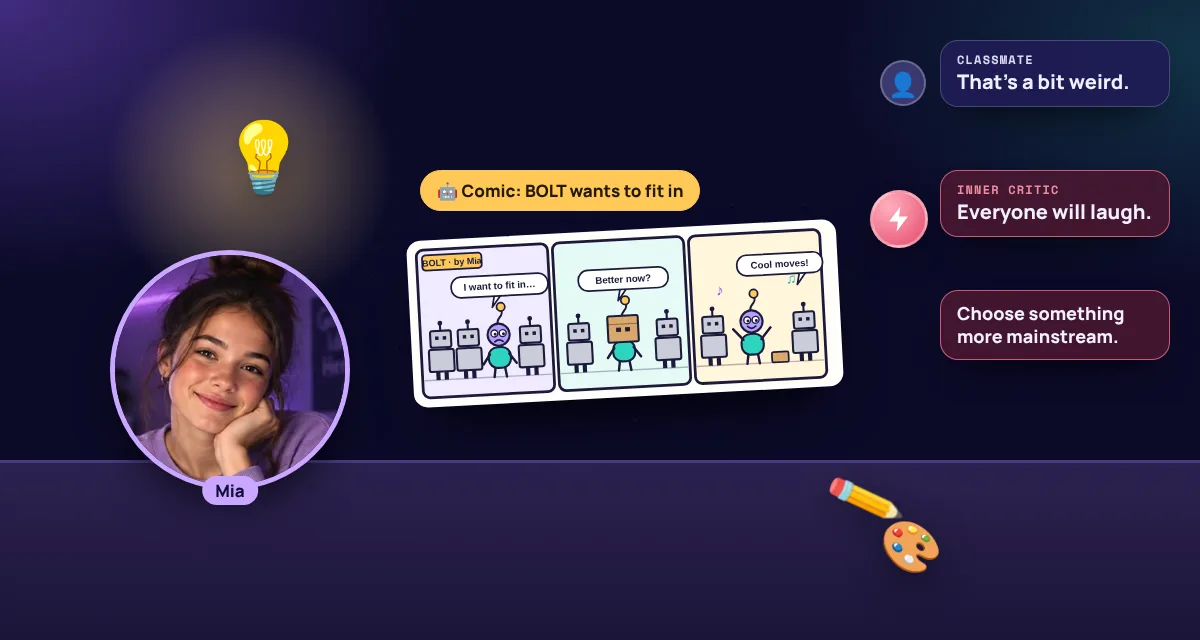
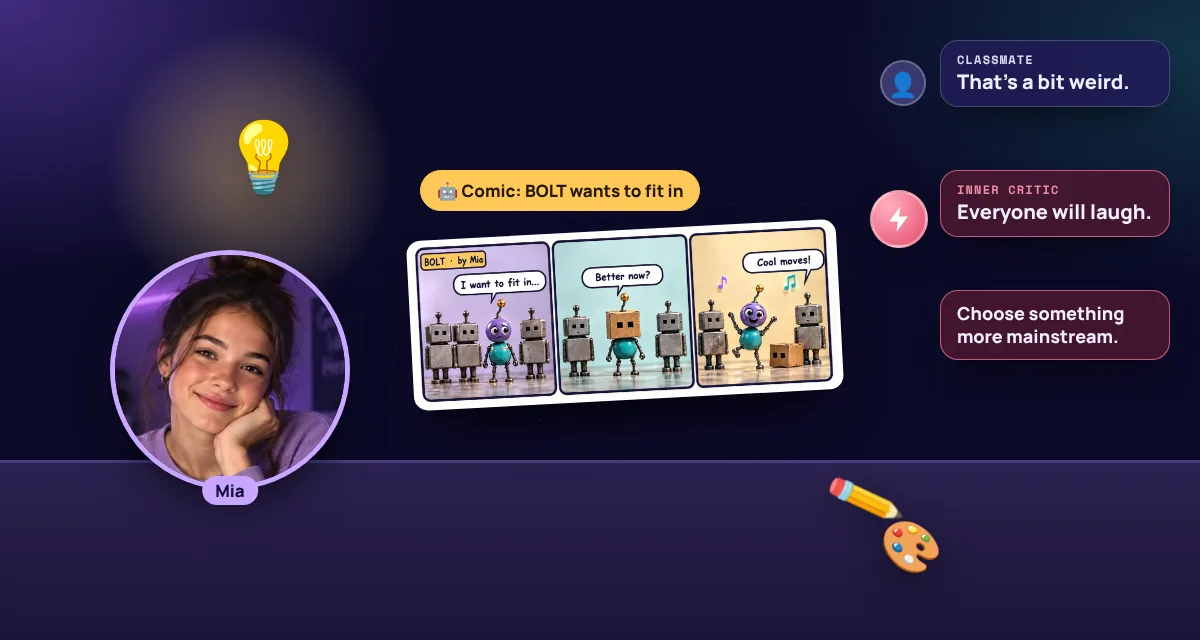
Add files via upload

Changed region(s): [[0.3392, 0.3438, 0.7092, 0.6562]]

diff --git a/lessons/lesson-07/lesson-07.html b/lessons/lesson-07/lesson-07.html
@@ -455,6 +455,9 @@ body.student, body.solo{overflow:auto}
 @keyframes ant{50%{transform:rotate(-9deg)}}
 @keyframes noteUp{0%{transform:translateY(4px); opacity:.3}50%{opacity:1}100%{transform:translateY(-12px); opacity:.2}}
 .attach{position:relative}
+.comicimg{display:block; width:100%; height:auto}
+.comicimg.reveal{animation:comicReveal 1.5s var(--cd,0s) cubic-bezier(.3,.7,.2,1) both}
+@keyframes comicReveal{0%{clip-path:inset(0 100% 0 0); filter:brightness(1.15)}100%{clip-path:inset(0 0 0 0); filter:none}}
 .stamp{position:absolute; right:6%; bottom:10%; padding:.1rem .6rem; border:4px solid var(--ok); border-radius:.6rem; color:var(--ok); background:rgba(255,255,255,.88); font-family:"Anton",sans-serif; font-size:1.3rem; letter-spacing:.04em; transform:rotate(-9deg)}
 .stamp.ent0{animation:stampIn .5s 1s cubic-bezier(.2,.9,.3,1.3) both}
 @keyframes stampIn{0%{opacity:0; transform:scale(1.8) rotate(-14deg)}100%{opacity:1; transform:rotate(-9deg)}}
@@ -939,7 +942,12 @@ const startersHtml = list=>`<div class="starters">${list.map(s=>`<span>${esc(s)}
 const optTag = '<span class="tag opt">Optional</span>';
 
 /* Mia’s comic “BOLT” — inline SVG */
-function comic(){
+/* Mia’s comic — the picture img/comic.webp; the drawn SVG below is only a fallback if the file is missing */
+const COMIC_ALT='Mia’s comic BOLT: a purple robot wants to fit in with square grey robots, hides its head in a cardboard box, then takes the box off and dances.';
+function comic(o={}){
+  return `<img class="comicimg ${o.reveal?'ent0 reveal':''}" src="img/comic.webp" alt="${esc(COMIC_ALT)}" ${o.delay?`style="--cd:${o.delay}"`:''} onerror="this.outerHTML=comicSvg()">`;
+}
+function comicSvg(){
   const ink='#1B1A3A', font="'Comic Sans MS','Chalkboard SE','Comic Neue',Manrope,sans-serif";
   const box=(x,y,c='#C9CCD8')=>`<g transform="translate(${x} ${y})"><line x1="15" y1="-9" x2="15" y2="0" stroke="${ink}" stroke-width="3"/><circle cx="15" cy="-11" r="3.5" fill="${ink}"/><rect width="30" height="24" rx="3" fill="${c}" stroke="${ink}" stroke-width="3"/><rect x="7" y="8" width="5" height="5" fill="${ink}"/><rect x="18" y="8" width="5" height="5" fill="${ink}"/><rect x="-3" y="27" width="36" height="32" rx="3" fill="${c}" stroke="${ink}" stroke-width="3"/><rect x="6" y="59" width="6" height="12" fill="${ink}"/><rect x="18" y="59" width="6" height="12" fill="${ink}"/></g>`;
   const bolt=(x,y,o={})=>`<g transform="translate(${x} ${y})"><g class="${o.cls||''}"><g class="ant"><path d="M15 -4 C 10 -14, 26 -16, 20 -26" stroke="${ink}" stroke-width="3" fill="none" stroke-linecap="round"/><circle cx="20" cy="-30" r="6" fill="#FFC857" stroke="${ink}" stroke-width="2.5"/></g>
@@ -1057,7 +1065,7 @@ const STEPS = [
       <div class="chat-h">${av('mia',2.4)}<div><b>Mia</b><small>● online</small></div><span class="grow"></span><span class="tag vio">📩 new</span></div>
       <div class="chat-b">
         ${MIA_MSG.parts.map((p,i)=>`<div class="typing tseq" style="--d:${(i*1.15).toFixed(2)}s"><i></i><i></i><i></i></div><div class="msg mseq ent0" style="--d:${(i*1.15+.75).toFixed(2)}s"><div class="bub">${esc(p)}</div></div>`).join('')}
-        <div class="msg mseq ent0" style="--d:3.9s;max-width:100%"><div class="bub" style="padding:.45rem;width:100%"><div class="attach">${comic()}</div><div class="attach-cap">📎 my comic for the creativity show</div></div></div>
+        <div class="msg mseq ent0" style="--d:3.9s;max-width:100%"><div class="bub" style="padding:.45rem;width:100%"><div class="attach">${comic({reveal:true, delay:'4.05s'})}</div><div class="attach-cap">📎 my comic for the creativity show</div></div></div>
         <div>${uaBtn('m1')}${uaBox('m1',MIA_MSG.ua)}</div>
       </div></div></div>
     <div style="display:grid;gap:1rem">

diff --git a/lessons/lesson-07/README.md b/lessons/lesson-07/README.md
@@ -10,6 +10,7 @@ lessons/lesson-07/
 ├── lesson-07.html        увесь урок (один файл, vanilla JS, без збірки)
 ├── img/mia.webp, leo.webp, alex.webp, sam.webp   фото героїв (Мія й Лео — як в уроках 15–16)
 ├── img/cover.webp        обкладинка картки на платформі
+├── img/comic.webp        комікс Мії BOLT (3 панелі з роботами) — у повідомленні Мії, у фіналі й на ілюстраціях
 ├── img/scene-1…4, 6…8.webp   ілюстрації сцен (заставки, мініатюри в заголовку, картинки на екранах)
 ├── img/story-1…4.webp    по картинці до кожного абзацу історії Мії
 ├── img/w-*.webp          12 карток-ілюстрацій до нових слів (w-inner-critic.webp … w-glow-up.webp)
@@ -17,7 +18,7 @@ lessons/lesson-07/
 └── README.md
 ```
 
-Комікс Мії про робота Bolt і значки «голосів» (Inner Critic / Hype Voice / Helpful Coach) вбудовані у файл як SVG — окремих картинок не потребують.
+Значки «голосів» (Inner Critic / Hype Voice / Helpful Coach) вбудовані у файл як SVG. Комікс — картинка `img/comic.webp`; якщо файл не завантажиться, сторінка покаже намальовану SVG-версію коміксу.
 Ілюстрації зібрані з наявних фото героїв і однокласників з уроків 6, 13, 14, 16.
 
 ## Анімації
@@ -25,7 +26,7 @@ lessons/lesson-07/
 - **Заставка сцени** (1,5 с): велика ілюстрація + назва сцени. Не блокує кліки.
 - **WHO HAS THE MIC?** угорі: шкала, на якій мікрофон за урок переходить від ⚡ внутрішнього критика до 🧭 коуча (ховається на вузьких екранах).
 - Мія «друкує» повідомлення (три крапки → повідомлення по черзі); у фіналі на коміксі з’являється штамп **SHOWN ✓** і летить конфеті.
-- **Комікс оживає**: робот Bolt гойдається, визирає з коробки й танцює, нотки злітають.
+- **Комікс розгортається** панель за панеллю, коли Мія його надсилає.
 - Картки слів розгортаються з ілюстрацією; абзаци історії виїжджають разом із картинкою, жовті слова один раз підсвічуються.
 - Правильна відповідь — зелене світіння й іскри; неправильна — легкий «струс». Вибрана кнопка коротко «підстрибує».
 - «Голоси» у сцені 6 ледь погойдуються; той, хто отримав мікрофон, світиться.
